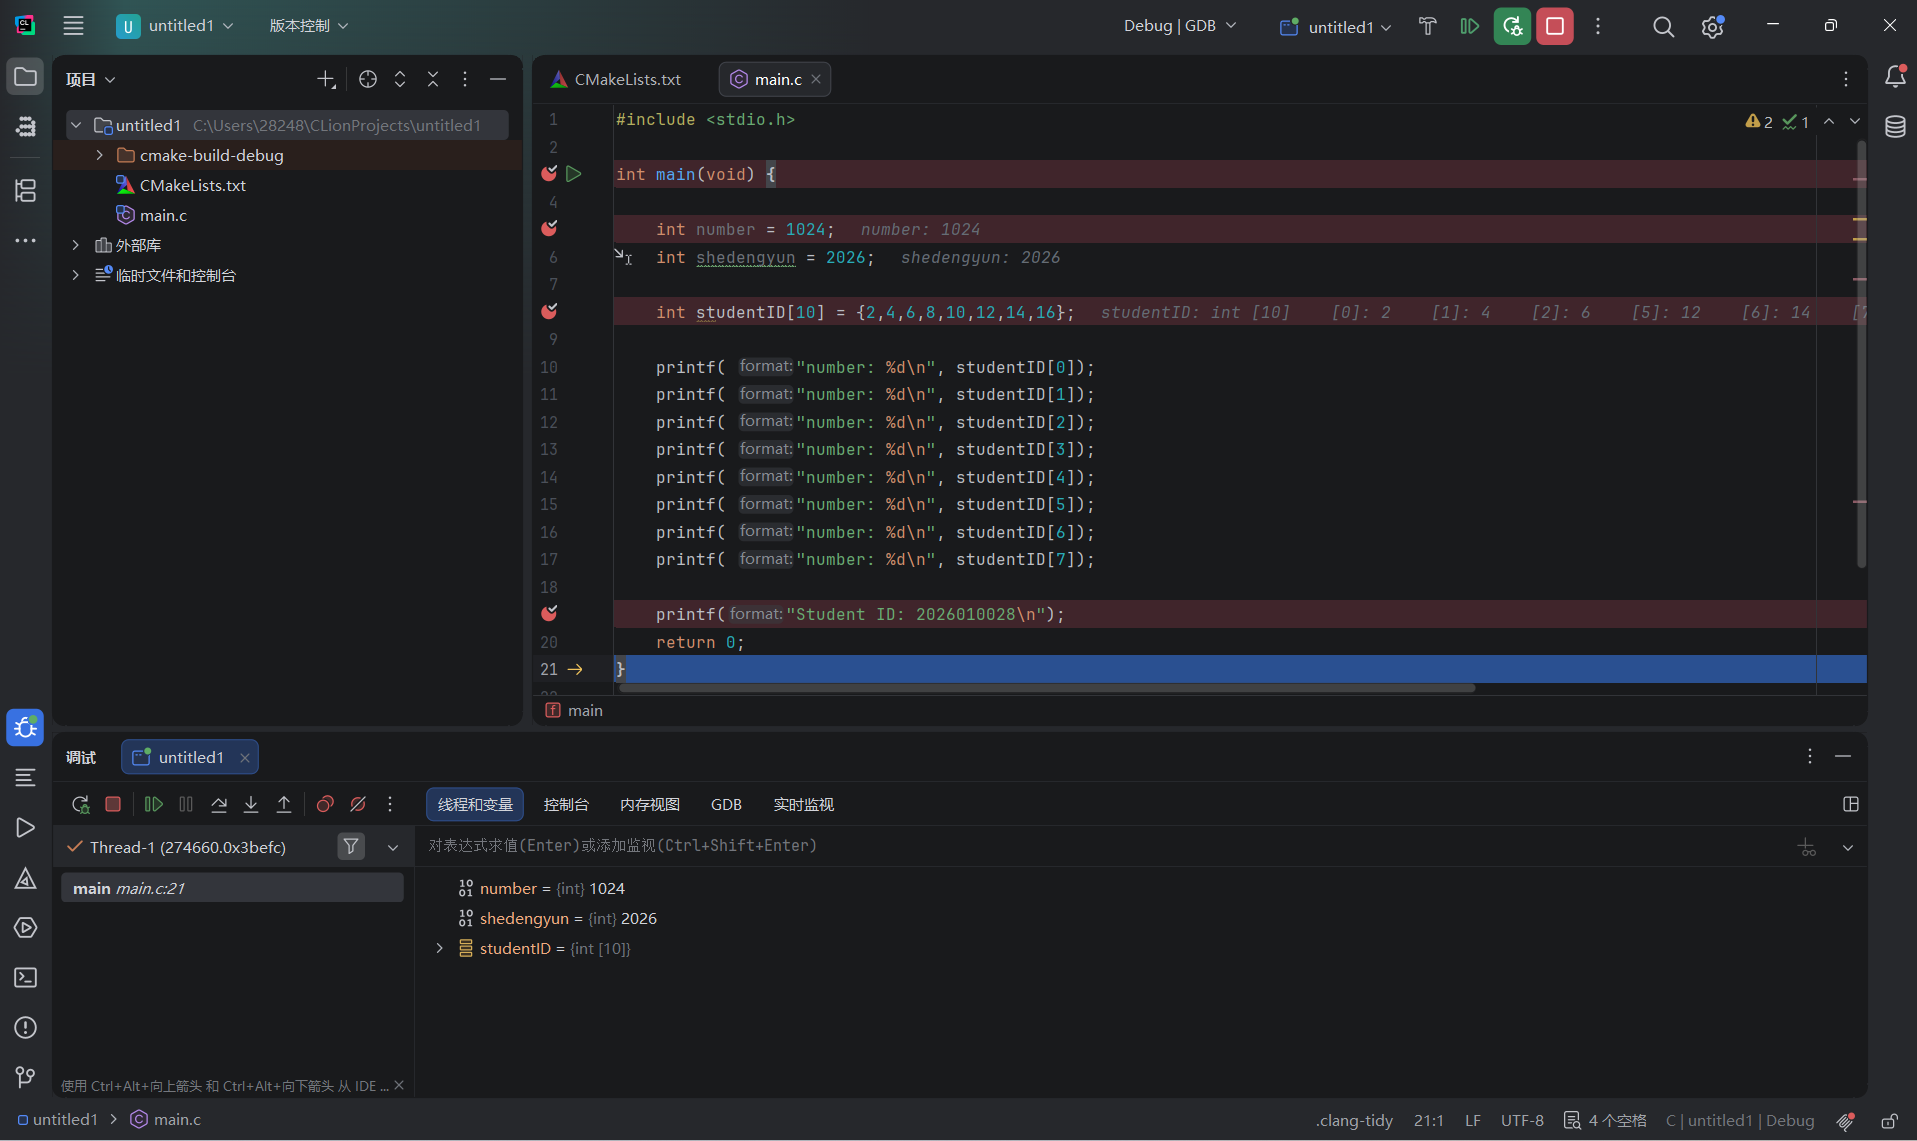
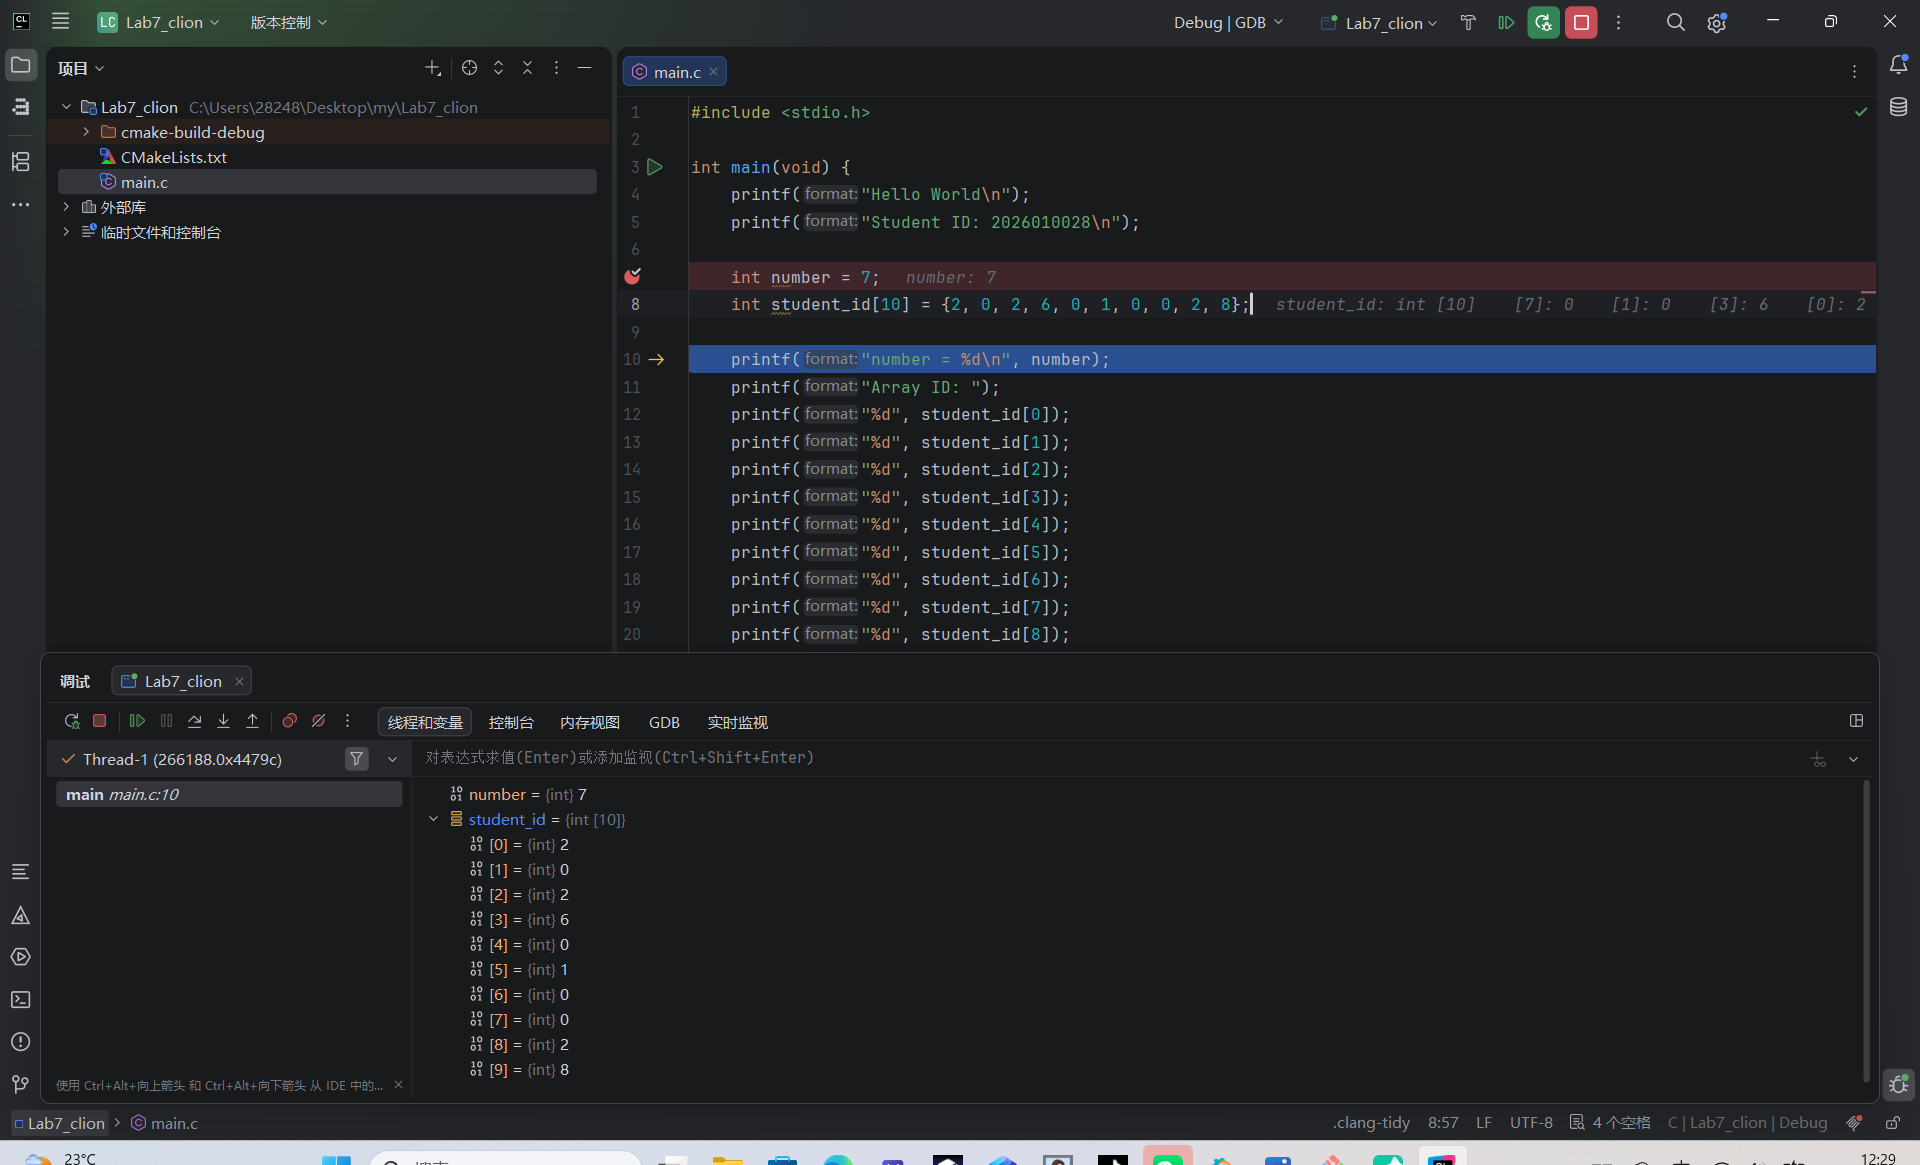
[2026010028佘登云]Lab7 修正学号数组与报告，替换为真实运行与调试截图

diff --git a/2026010028佘登云/Lab7/lab7_basics.c b/2026010028佘登云/Lab7/lab7_basics.c
@@ -1,12 +1,11 @@
 #include <stdio.h>
 
-/* 示例学号为 2026010099。练习时替换字符串和数组中的学号。 */
 int main(void) {
     printf("Hello World\n");
-    printf("Student ID: 2026010099\n");
+    printf("Student ID: 2026010028\n");
 
     int number = 7;
-    int student_id[10] = {2, 0, 2, 6, 0, 1, 0, 0, 9, 9};
+    int student_id[10] = {2, 0, 2, 6, 0, 1, 0, 0, 2, 8};
 
     printf("number = %d\n", number);
     printf("Array ID: ");

diff --git a/2026010028佘登云/Lab7/Lab7.md b/2026010028佘登云/Lab7/Lab7.md
@@ -315,9 +315,11 @@ Step Over 会执行当前语句，然后在后续位置暂停。对本次的 `pr
 粘贴本人最终程序的完整四行输出：
 
 ```text
-C:\Users\28248\CLionProjects\untitled1\cmake-build-debug\untitled1.exe
-number: 10
+C:\Users\28248\Desktop\my\Lab7_clion\cmake-build-debug\Lab7_clion.exe
+Hello World
 Student ID: 2026010028
+number = 7
+Array ID: 2026010028
 
 进程已结束，退出代码为 0
 ```
@@ -328,18 +330,18 @@ Student ID: 2026010028
 
 | 项目 | 本人记录 |
 | :--- | :--- |
-| `int` 变量名称及初始值 | number=16 |
-| 学号数组名称及十个初始值，按顺序用逗号分隔 | studentID,2,4,6,8,10,12,14,16,0,0 |
-| 直接输出的学号与数组输出的学号是否一致 | 不一致 |
+| `int` 变量名称及初始值 | number = 7 |
+| 学号数组名称及十个初始值，按顺序用逗号分隔 | student_id，2, 0, 2, 6, 0, 1, 0, 0, 2, 8 |
+| 直接输出的学号与数组输出的学号是否一致 | 一致 |
 
 ### 4.3 调试观察记录
 
 | 观察项目 | 本人记录 |
 | :--- | :--- |
-| 设置断点的源码语句 | printf(format:"number:%d\n",studentID[4]); |
-| 整数变量初始化完成后的高亮语句及变量值 |int number = 16; number=16；int shedengyun = 10; shedengyun=10 |
-| 数组初始化完成后，下标 `0` 和下标 `9` 的值 |studentID[0]=2，studentID[9]=0  |
-| 对一条 `printf` 执行 Step Over 前后的高亮语句 |执行前：printf( format:"number: %d\n", studentID[4]); 执行后： printf( format:"Student ID: 2026010028\n");|
+| 设置断点的源码语句 | int number = 7; |
+| 整数变量初始化完成后的高亮语句及变量值 | int student_id[10] = {2, 0, 2, 6, 0, 1, 0, 0, 2, 8};，此时 number = 7 |
+| 数组初始化完成后，下标 `0` 和下标 `9` 的值 | student_id[0] = 2，student_id[9] = 8 |
+| 对一条 `printf` 执行 Step Over 前后的高亮语句 | 执行前：printf("number = %d\n", number); 执行后：printf("Array ID: "); |
 
 记录高亮语句时填写实际源码内容即可，不要求固定行号。数组元素和整数变量值应在对应初始化完成后记录。
 
@@ -349,15 +351,15 @@ Student ID: 2026010028
 
 1. `printf("7\n");` 与 `printf("%d\n", number);` 分别从哪里取得输出内容？
 
-   > printf("\n");  输出内容来自字符串常量； printf("%d\n", number);  从变量number中读取数据输出。
+   > `printf("7\n");` 的输出内容来自双引号内的字符串常量本身；`printf("%d\n", number);` 由 `%d` 占位，运行时从变量 `number` 的值取得输出内容。
 
 2. 学号数组有十个元素，为什么输出时使用下标 `0` 至 `9`？下标 `3` 对应学号第几位？
 
-   > 2. C语言数组下标从0开始，10个元素对应下标0~9；下标3对应学号第4位。
+   > C 语言数组下标从 0 开始，十个元素依次对应下标 `0` 至 `9`；下标 `3` 对应学号第 4 位，本人学号该位是 6。
 
 3. 首次暂停在 `int number = 7;` 时，为什么需要执行 Step Over 后再记录变量的初始值？如果使用了其他变量名或初始值，按本人的代码说明即可。
 
-   > 3. 断点停在初始化语句这一行时，变量还没有完成赋值；执行Step Over单步跨过这条语句之后，赋值操作才完成，才能读到正确的初始值。
+   > 断点停在该行时这条初始化语句尚未执行，`number` 还没有完成赋值，面板里读到的不是本次结果；执行一次 Step Over 让赋值语句执行完毕，高亮移到数组定义行，此时读到的才是本次的初始值。
 
 ### 4.5 实验截图
 
@@ -368,9 +370,9 @@ Student ID: 2026010028
 
 运行截图中的源码区域应能辨认十条固定下标输出语句；调试截图中的数组元素应与本人学号逐位对应。截图不要求固定主题、面板布局或整数变量初始值。
 
-![程序运行结果]![alt text](lab7_run.png)
+![程序运行结果](imgs/lab7_run.png)
 
-![断点与变量观察]![alt text](lab7_debug.png)
+![断点与变量观察](imgs/lab7_debug.png)
 
 ## 五、截图与提交
 
